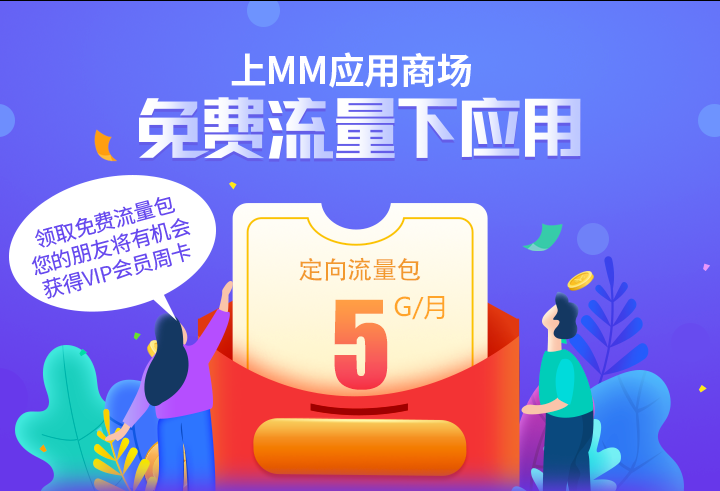
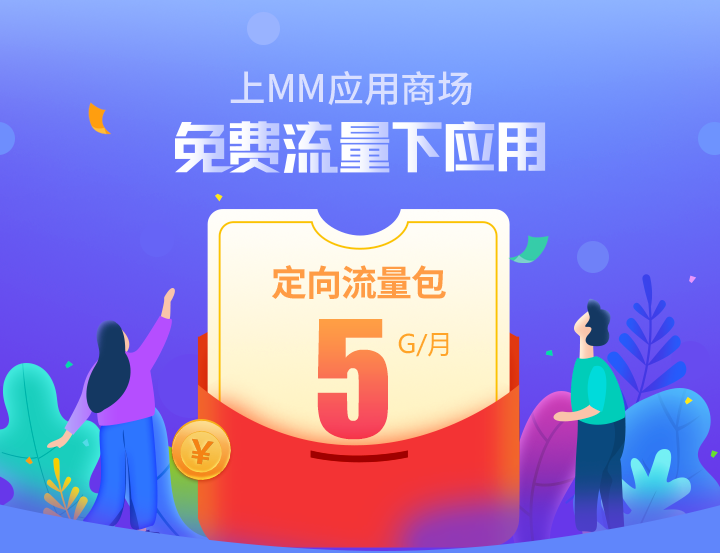
fix

diff --git a/src/share.html b/src/share.html
@@ -16,20 +16,20 @@
 	<body class="home-bg">
 		<div class="banner">
 			<img src="./assets/img/home-share-bg.png" class="banner">
-			<a class="lklq-btn">立即领取</a>
+			<a class="lklq-btn share-page"></a>
 		</div>
 		<div class="main-settion">
-			<div class="card-pannel">
-				<div class="mian-liu">
-					<img src="./assets/img/mian-liu-app.png" alt="">
+			<div class="card-pannel share-page">
+				<div class="mian-liu share-page">
+					<img src="./assets/img/mm-app.png" alt="">
 					<div>MM应用商场</div>
 				</div>
 				<div class="share-wrap">
-					<div class="share-btn">
-						去MM下应用
+					<div class="share-btn share-page">
+						
 					</div>
 					<div class="text">
-						下载MM应用商场并且在MM下载任一应用，<br> 您的朋友将有机会获得爱奇艺和优酷的VIP会员月卡
+						定向流量包详细适用范围见下方活动规则
 					</div>
 				</div>
 			</div>
@@ -39,11 +39,13 @@
 				</div>
 				<div class="share-item-box">
 					<div class="share-item">
+						<img class="app-icon" src="./assets/img/youku-icon.png">
 						<div class="text">
 							爱奇艺黄金VIP<br> 会员月卡
 						</div>
 					</div>
 					<div class="share-item">
+							<img class="app-icon" src="./assets/img/app-icon.png">
 						<div class="text">
 							爱奇艺黄金VIP<br> 会员月卡
 						</div>
@@ -59,16 +61,17 @@
 					<br />
 					<br /> 2、活动对象：中国移动安卓手机MM应用商城受邀目标用户
 					<br />
-					<br /> 3、免流业务覆盖区域： 由于各地区免流业务上线时间不同，部分地区内的用户目前无法领取免流包。我们会在近期内陆续开展各地区内免流业务，用户可在免流业务上线后领取免流包，敬请期待。  截至今日，已开通免流业务的地区有：江苏、江西、内蒙古、吉林、河南、山东、宁夏、辽宁、海南、广东、重庆、四川、贵州、福建、甘肃、河北、青海、湖南、湖北、上海、广西。
+					<br /> 3、免流业务覆盖区域全国各省用户均可领取（港澳台除外） 
 					<br />
 					<br /> 4、活动说明：
-					<br /> （1）用户在活动页面完成领取MM定向流量包后，每月最高可节省5GB流量，使用定向流量时请保证订购产品手机号码与本机手机号码一致。
-					<br />（2）本次活动流量包为MM任我装0元5GB定向流量包，资费优惠为0元5GB/月，活动期内每个用户仅可订购一次。产品订购当月立即生效，次月自动续订，有效期为6个月，6个月到期后自动失效。订购当月不足一周期按一周期算。产品流量不结转、不能共享、不能转赠。
-					<br />（3）每位用户仅可参加一次本优惠活动；退订后无法再参加此活动。
+					<br /> （1）用户在活动页面完成领取MM定向流量包后，每月最高可节省5GB流量，使用定向流量时请保证订购产品手机号码与本机手机号码一致。 
+					<br />（2）本次活动流量包为MM任我装0元5GB定向流量包，资费优惠为0元5GB/月，活动期内每个用户仅可订购一次。产品订购当月立即生效，次月自动续订，有效期为6个月，6个月到期后自动失效。订购当月不足一周期按一周期算。产品流量不结转、不能共享、不能转赠。 
+					<br />（3）每位用户仅可参加一次本优惠活动；退订后无法再参加此活动。 
 					<br />
 					<br /> 5、 MM任我装定向流量包开通成功请以短信通知为准。
 					<br />
 					<br /> 6、账单展示规则与其他定向流量包产品一致，详情请查看当地中国移动网上营业厅。
+					<br /> 7、本页面下载的MM客户端不在免流范围内，需要消耗用户流量，请用户注意流量消耗情况。
 
 				</div>
 

diff --git a/src/assets/styles/index.less b/src/assets/styles/index.less
@@ -45,7 +45,7 @@
   visibility: hidden;
 }
 .home-bg{
-  background-color: #6741e6;
+  background-color: #6289f8;
 }
 .banner{
   position: relative;
@@ -63,7 +63,7 @@
   }
   img.banner{
     display: inline-block;
-    height: 4.59rem;
+    height: 5.53rem;
     width: 100%;
   }
   .lklq-btn{
@@ -73,6 +73,14 @@
     transform: translate3d(-50%,0,0);
     font-size: .24rem;
     color:#fff;
+    &.share-page{
+      bottom: -0.205rem;
+      width: 5.47rem;
+      height: 1.03rem;
+      font-size: 0;
+      background: url(../img/ljlq-btn.png)no-repeat;
+      background-size: 100% 100%;
+    }
   }
   .rule-tag{
     display: flex;
@@ -139,10 +147,16 @@
   margin-bottom: .2rem;
   overflow: hidden;
   text-align: center;
+  &.share-page{
+    background-color: #6289f8;
+  }
   .mian-liu{
     margin-top: .6rem;
     padding-bottom: .2rem;
     background: linear-gradient(#fff,#f3f3f3);
+    &.share-page{
+      background:none;
+    }
     img{
       width: 1.81rem;
       height: 1.81rem;
@@ -151,7 +165,7 @@
       margin-top: .1rem;
       font-size: .32rem;
       font-weight: bold;
-      color:#666666;
+      color:#fff;
     }
   }
   .header{
@@ -319,21 +333,47 @@
     margin:.3rem 0;
     text-align: center;
     .text{
+      position: relative;
       margin-top: .1rem;
       font-size: .24rem;
-     color:#666666;
+      color:#bee3ff;
+      &::before{
+        position: absolute;
+        content: "";
+        width:.48rem;
+        height: 1px;
+        top:50%;
+        transform: translateY(-50%);
+        left:0.4rem;
+        background:linear-gradient(to right,rgba(230, 236, 251, 0),#80b8e4)
+      }
+      &::after{
+        position: absolute;
+        content: "";
+        width:.48rem;
+        height: 1px;
+        top:50%;
+        transform: translateY(-50%);
+        right:0.52rem;
+        background:linear-gradient(to right,rgba(230, 236, 251, 0),#80b8e4)
+      }
     }
   }
   .share-btn{
     display: inline-block;
     background: url(../img/share-btn.png)no-repeat;
-    background-size:100% 100%;;
+    background-size:100% 100%;
     width: 5.47rem;
     height: .88rem;
     font-size: .36rem;
     color:#fff;
     line-height: .88rem;
     text-align: center;
+    &.share-page{
+      background: url(../img/ljlq-btn-2.png)no-repeat;
+      background-size:100% 100%;
+      height: 1.32rem;
+    }
   }
 }
 .content{
@@ -366,14 +406,17 @@
     flex: 1;
     width: 3.01rem;
     height: 2.2rem;
-
      background: url(../img/share-item-bg.png)no-repeat;
      background-size: 100% 100%;
       &:first-child{
         margin-right: .2rem;
       }
+      .app-icon{
+        margin-top: .2rem;
+        width: .62rem;
+        height: .62rem;
+      }
       .text{
-        padding-top: .5rem;
         font-size: .24rem;
         color:#975f00;
       }
